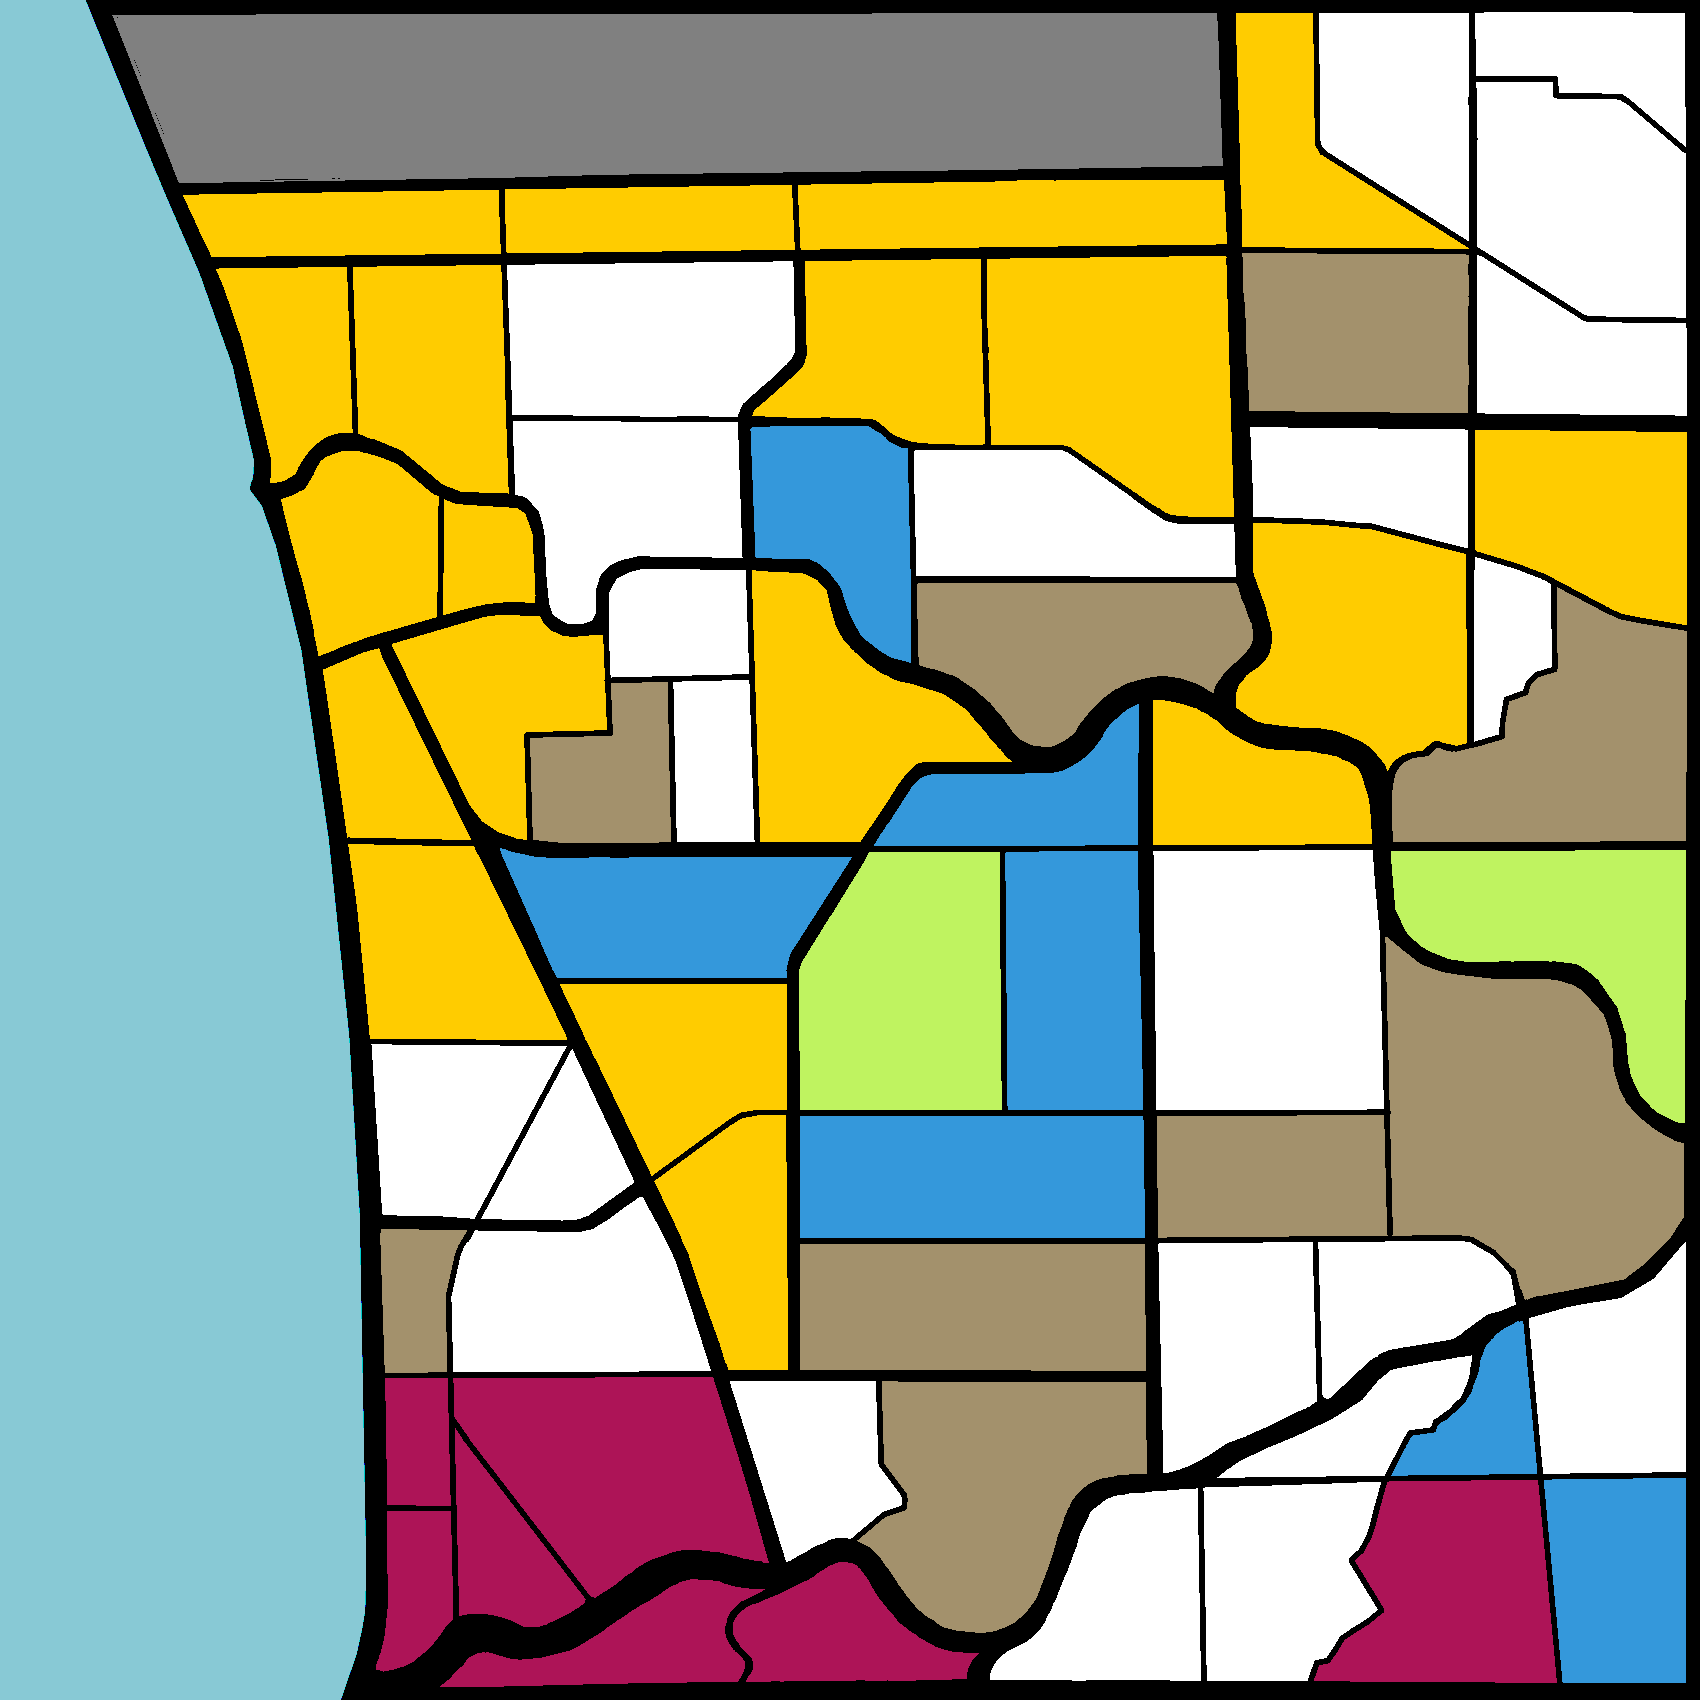
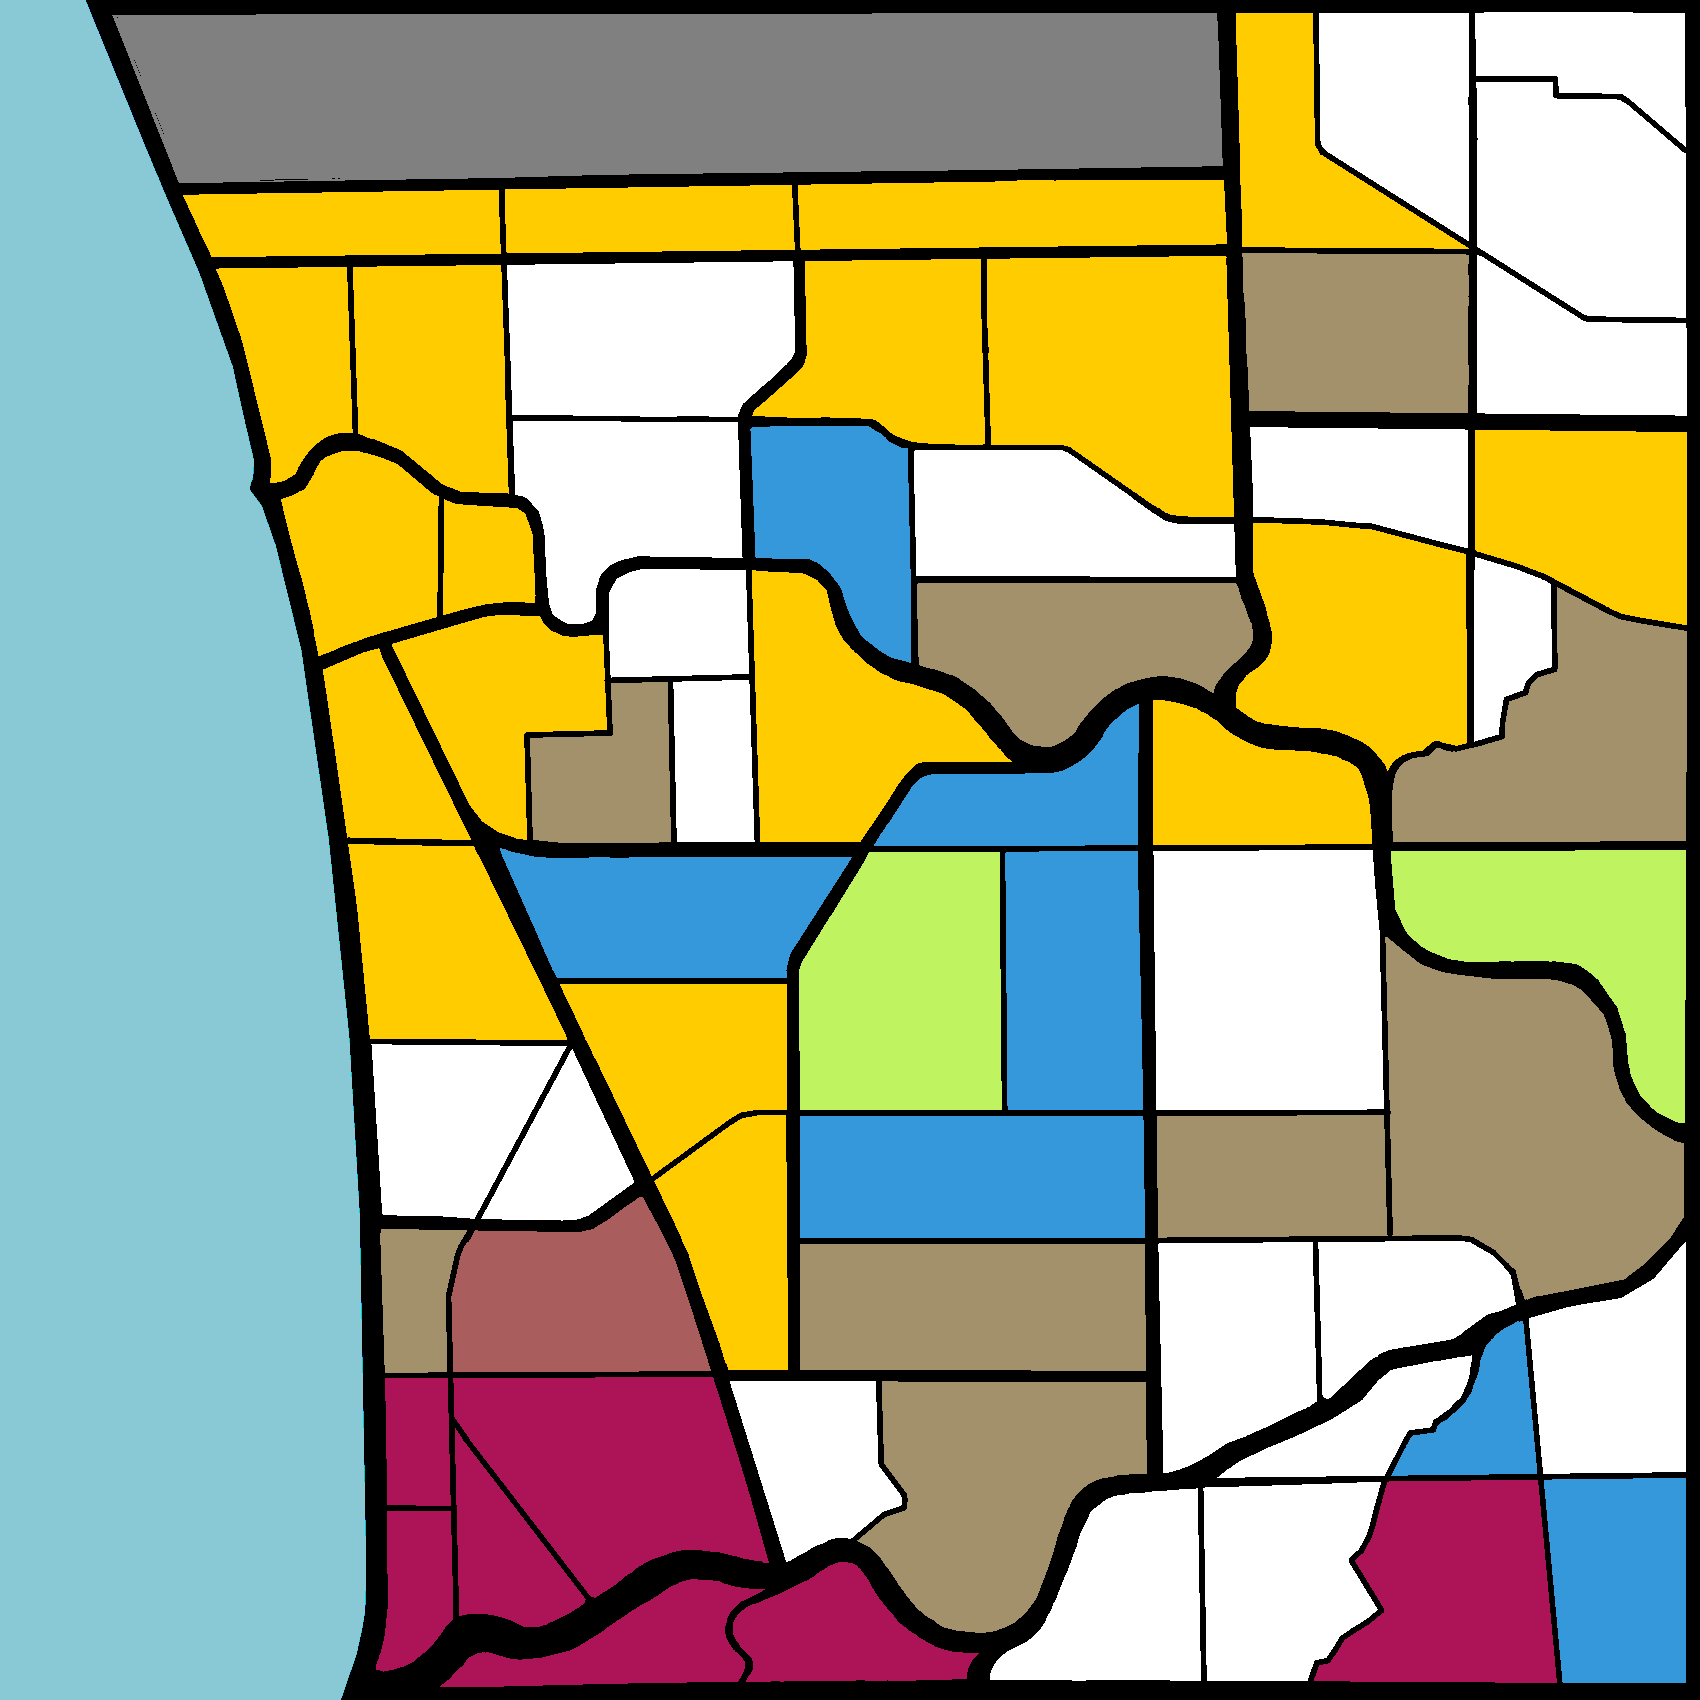
Added Faction commands

Changed region(s): [[0.2494, 0.7171, 0.4365, 0.8106]]

diff --git a/Kingfisher.py b/Kingfisher.py
@@ -29,7 +29,7 @@ from pytz import timezone
 from ruamel.yaml import YAML
 from operator import itemgetter
 
-version = "0.2.1d"
+version = "0.2.2 faction commands"
 ###useful resources
 #for colours
 #www.htmlcsscolor.com/hex
@@ -1109,6 +1109,42 @@ async def calc(ctx,formula):
     await ctx.send(f"`{formula}`= {eval(formula)}") #using eval is quite unsafe
 
 
+#gh_factions
+@bot.group(description="",aliases=[])
+async def faction(ctx):
+    global gh_factions
+    if ctx.message.author.id not in owner:
+        await ctx.send(f"Bzzt! Not authorized.")
+        return
+    if ctx.invoked_subcommand is None:
+        with open(f"gh_factions.yaml",mode="r+") as f:
+            gh_factions=yaml.load(f)
+            gh_factions=dict(gh_factions) #YAML can't handle tuples, so we have convert back
+            for k in gh_factions:
+                gh_factions[k]=tuple(gh_factions[k])
+        print(gh_factions)
+
+
+@faction.command(description="",aliases=[])
+async def check(ctx):
+    print(gh_factions)
+
+
+@faction.command(description="", aliases=[],hidden=True)
+async def add(ctx,name,color):
+    global gh_factions
+    for k in gh_factions:
+        if k==name:
+            await ctx.send(f"Name already taken!")
+            return
+    gh_factions[name]=ImageColor.getrgb(color)
+    print(gh_factions)
+    with open(f"gh_factions.yaml",mode="w+") as f:
+        f.seek(0)
+        yaml.dump(gh_factions,f)
+    await ctx.send(f"Successfully added **{name}** to faction list.")
+
+
 @bot.command(name="time",description="Stuck in bubble hell? Wonder when giao will be back?")
 async def _time(ctx,):
     utc=datetime.datetime.now(tz=pytz.utc)
@@ -1674,7 +1710,10 @@ async def roll(ctx,formula="default",*comment):
         result_i= [int(i) for i in result]
 
         if keep is True:
-            highest=max(result_i)
+            if "p" in formula:
+                highest=min(result_i)
+            else:
+                highest=max(result_i)
         else:
             highest=sum(result)
         #print(keep)
